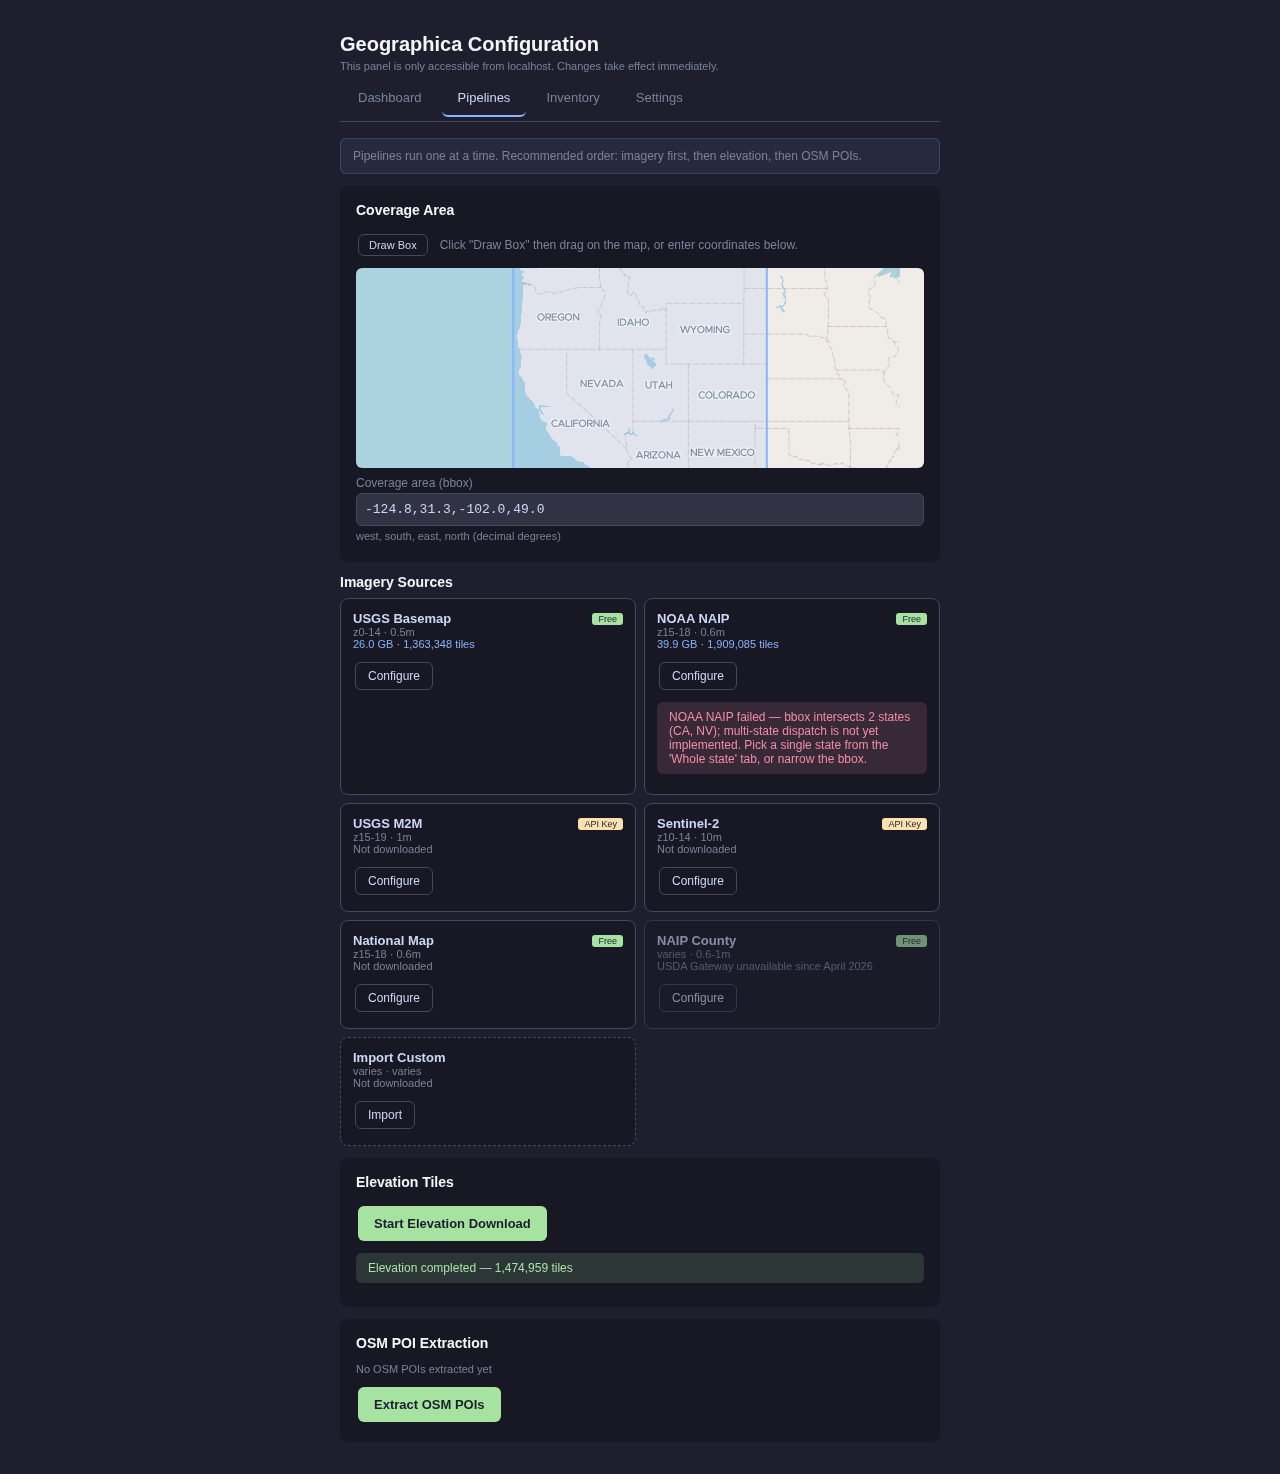
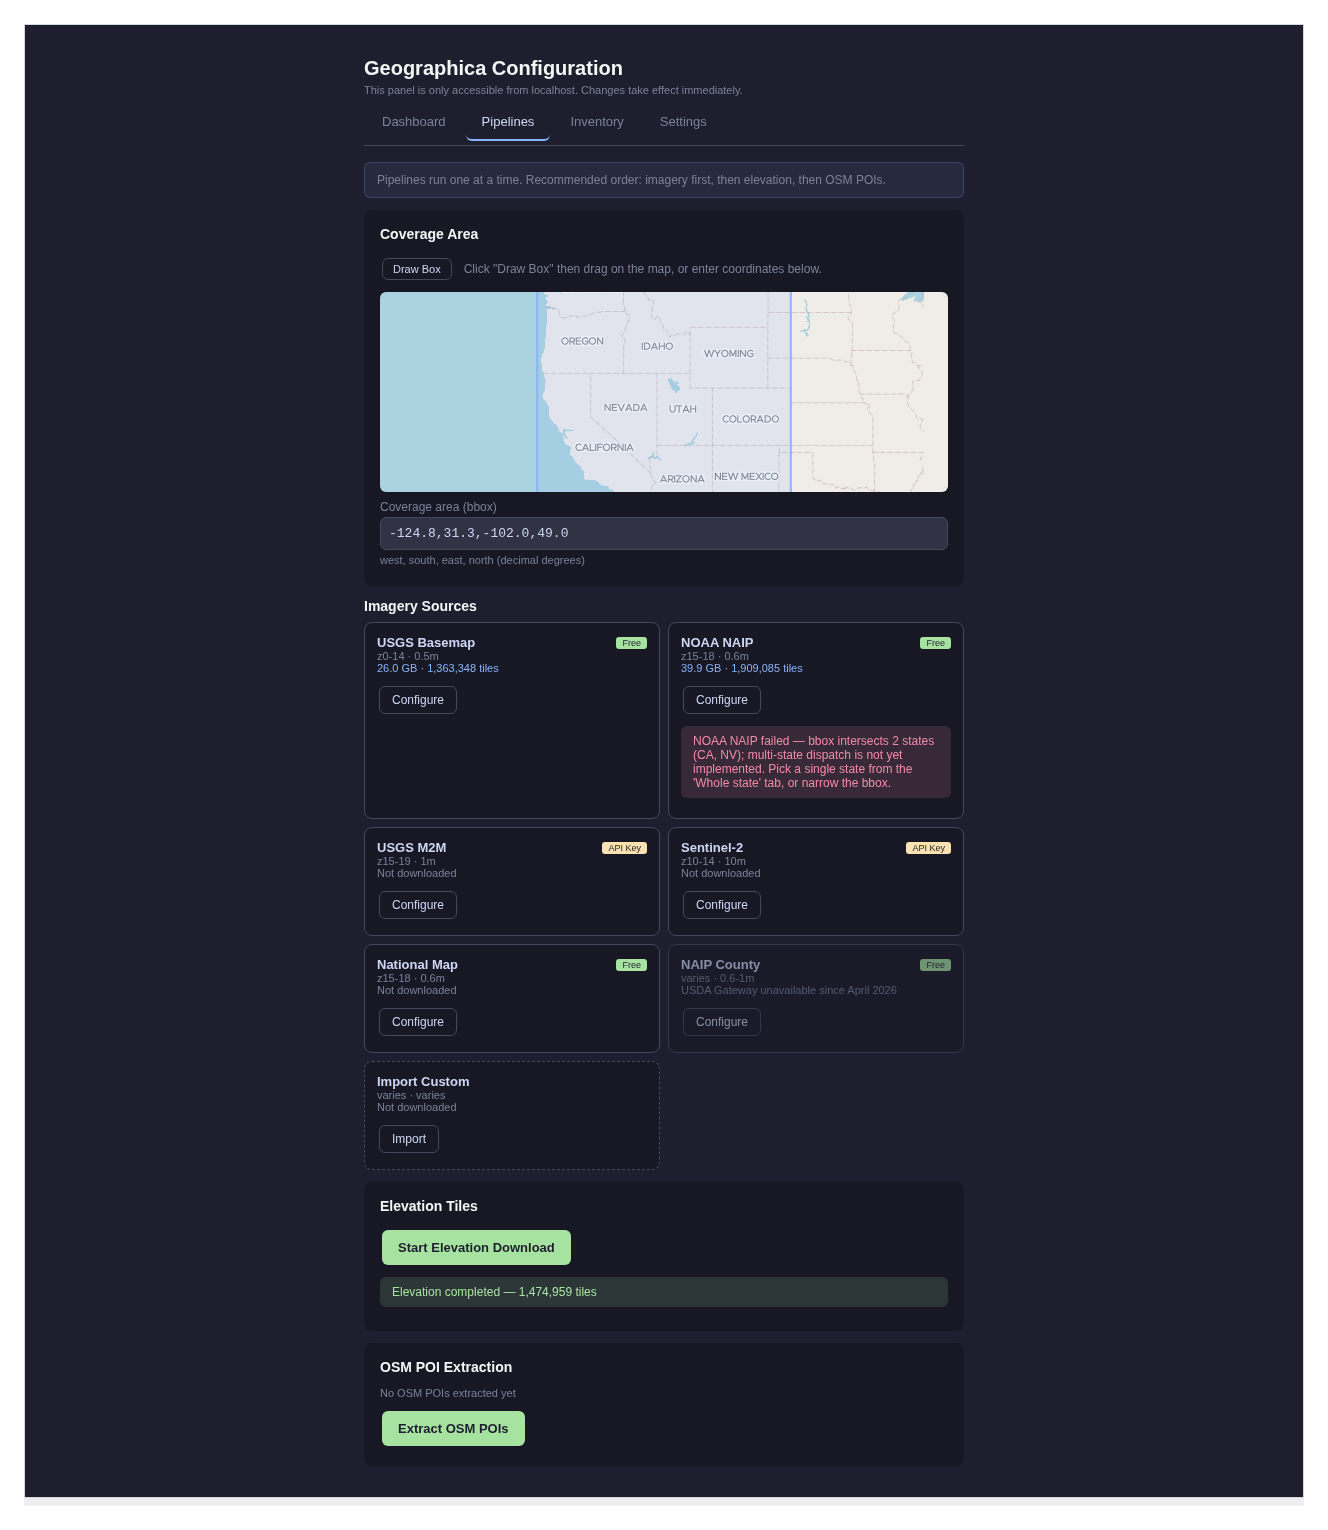
chore(screenshots): post-process desktop shots (border + drop shadow)
Pillow-based framing: 1px GitHub-muted border (#d0d7de) + soft drop
shadow on transparent canvas. Applied to 7 captured PNGs in-place
(3d-terrain, voice-search, public-lands, admin-pipeline, setup-wizard,
kmz-overlay, imagery-before-after). hero-everything and mobile-nav
remain pending Cameron's manual capture in T5.7; mobile-nav also
awaits the phone-frame composite in T5.9.

Idempotency is implemented via a PNG text-chunk sentinel
(`geographica-framed=1`) written on save and detected on subsequent
runs — re-running the script skips already-framed PNGs instead of
double-framing. `--force` overrides for intentional re-processing.

Also extends `--shots` to accept a comma-separated list of stems so
single shots can be re-framed without touching siblings.

Plan-body deviations:
- Replaced the docstring's "1-pixel transparent stripe" sentinel
  description with the actual PNG text-chunk implementation (text
  chunks survive PIL save/load, are transparent to viewers, and
  don't risk corrupting the rendered image).
- Implemented the placeholder `# else: parse args.shots ...` branch
  (~10 lines).
- Added `--force` flag to bypass the idempotency check.

Agent: bajada

diff --git a/scripts/postprocess_screenshots.py b/scripts/postprocess_screenshots.py
@@ -1,0 +1,173 @@
+"""
+Apply visual framing to README screenshots.
+
+Desktop shots: subtle 1px border (#d0d7de) + soft drop shadow on a transparent
+canvas. Mobile shots: composite into a phone frame (deferred to T5.9 — falls
+back to desktop framing if no template is present).
+
+Idempotency: the framing operation grows the canvas to a deterministic size
+(src_w + 2*PADDING, src_h + 2*PADDING + SHADOW_OFFSET_Y). Before processing,
+the script reads the source PNG's "geographica-framed" PNG text marker; if
+present, the file is skipped. The marker is written into the PIL Image
+metadata on the first framed save.
+
+Usage:
+  python3 scripts/postprocess_screenshots.py                        # all
+  python3 scripts/postprocess_screenshots.py --shots 3d-terrain     # one
+  python3 scripts/postprocess_screenshots.py --shots a,b,c          # subset
+  python3 scripts/postprocess_screenshots.py --force                # re-frame
+"""
+import argparse
+from pathlib import Path
+from PIL import Image, ImageDraw, ImageFilter, PngImagePlugin
+
+OUT_DIR = Path(__file__).resolve().parent.parent / "docs" / "screenshots"
+GALLERY_DIR = OUT_DIR / "gallery"
+PHONE_FRAME_PATH = OUT_DIR / "_phone_frame_template.png"
+
+DESKTOP_SHOTS = ["3d-terrain", "voice-search", "public-lands", "admin-pipeline", "hero-everything"]
+GALLERY_SHOTS = ["setup-wizard", "kmz-overlay", "imagery-before-after"]
+MOBILE_SHOTS = ["mobile-nav"]
+
+BORDER_COLOR = (208, 215, 222, 255)  # #d0d7de — GitHub muted border
+SHADOW_OFFSET = (0, 8)
+SHADOW_BLUR = 16
+SHADOW_OPACITY = 64
+PADDING = 24
+
+FRAMED_MARKER_KEY = "geographica-framed"
+FRAMED_MARKER_VAL = "1"
+
+
+def _is_already_framed(img: Image.Image) -> bool:
+    """Detect prior framing via PNG text metadata sentinel."""
+    info = getattr(img, "info", {}) or {}
+    return info.get(FRAMED_MARKER_KEY) == FRAMED_MARKER_VAL
+
+
+def _build_pnginfo() -> PngImagePlugin.PngInfo:
+    pnginfo = PngImagePlugin.PngInfo()
+    pnginfo.add_text(FRAMED_MARKER_KEY, FRAMED_MARKER_VAL)
+    return pnginfo
+
+
+def desktop_frame(input_path: Path, output_path: Path, force: bool = False) -> str:
+    """1px border + soft drop shadow on a transparent canvas. Returns status."""
+    src = Image.open(input_path)
+    if not force and _is_already_framed(src):
+        return "skipped (already framed)"
+    src = src.convert("RGBA")
+    sw, sh = src.size
+
+    canvas_w = sw + PADDING * 2
+    canvas_h = sh + PADDING * 2 + SHADOW_OFFSET[1]
+    canvas = Image.new("RGBA", (canvas_w, canvas_h), (0, 0, 0, 0))
+
+    # Draw shadow first (full-rectangle dark fill, then blurred)
+    shadow = Image.new("RGBA", (sw, sh), (0, 0, 0, SHADOW_OPACITY))
+    shadow_blurred = shadow.filter(ImageFilter.GaussianBlur(SHADOW_BLUR))
+    canvas.paste(
+        shadow_blurred,
+        (PADDING + SHADOW_OFFSET[0], PADDING + SHADOW_OFFSET[1]),
+        shadow_blurred,
+    )
+
+    # Draw the source image on top
+    canvas.paste(src, (PADDING, PADDING), src)
+
+    # 1px border
+    draw = ImageDraw.Draw(canvas)
+    draw.rectangle(
+        [(PADDING, PADDING), (PADDING + sw - 1, PADDING + sh - 1)],
+        outline=BORDER_COLOR,
+        width=1,
+    )
+
+    canvas.save(output_path, optimize=True, pnginfo=_build_pnginfo())
+    return "framed"
+
+
+def phone_frame(input_path: Path, output_path: Path, force: bool = False,
+                frame_template: Path = PHONE_FRAME_PATH) -> str:
+    """Composite a phone screenshot into a phone-frame template."""
+    if not frame_template.exists():
+        # Fallback: portrait desktop frame.
+        print(f"  ⚠ phone frame template missing at {frame_template}; "
+              f"falling back to desktop frame")
+        return desktop_frame(input_path, output_path, force=force)
+
+    src = Image.open(input_path)
+    if not force and _is_already_framed(src):
+        return "skipped (already framed)"
+    src = src.convert("RGBA")
+    frame = Image.open(frame_template).convert("RGBA")
+
+    cutout_w, cutout_h = frame.size
+    src_resized = src.resize((cutout_w, cutout_h), Image.Resampling.LANCZOS)
+    canvas = Image.new("RGBA", frame.size, (0, 0, 0, 0))
+    canvas.paste(src_resized, (0, 0), src_resized)
+    canvas.paste(frame, (0, 0), frame)
+    canvas.save(output_path, optimize=True, pnginfo=_build_pnginfo())
+    return "phone-framed"
+
+
+def _all_targets():
+    return (
+        [(OUT_DIR / f"{s}.png", OUT_DIR / f"{s}.png", "desktop") for s in DESKTOP_SHOTS]
+        + [(GALLERY_DIR / f"{s}.png", GALLERY_DIR / f"{s}.png", "desktop") for s in GALLERY_SHOTS]
+        + [(OUT_DIR / f"{s}.png", OUT_DIR / f"{s}.png", "phone") for s in MOBILE_SHOTS]
+    )
+
+
+def _resolve_shot(name: str):
+    """Map a bare shot name (e.g. 'kmz-overlay') back to its (in, out, kind) tuple."""
+    for tup in _all_targets():
+        inpath, _outpath, _kind = tup
+        if inpath.stem == name:
+            return tup
+    return None
+
+
+def main():
+    parser = argparse.ArgumentParser(description=__doc__)
+    parser.add_argument(
+        "--shots",
+        default="all",
+        help="'all' (default) or a comma-separated list of shot stems "
+             "(e.g. '3d-terrain,voice-search').",
+    )
+    parser.add_argument(
+        "--force",
+        action="store_true",
+        help="Re-frame even if the framed-marker is already present.",
+    )
+    args = parser.parse_args()
+
+    if args.shots == "all":
+        targets = _all_targets()
+    else:
+        names = [s.strip() for s in args.shots.split(",") if s.strip()]
+        targets = []
+        for name in names:
+            tup = _resolve_shot(name)
+            if tup is None:
+                print(f"  ⚠ unknown shot: {name} (skipping)")
+                continue
+            targets.append(tup)
+
+    for inpath, outpath, kind in targets:
+        if not inpath.exists():
+            print(f"  ⚠ skipping (missing): {inpath.name}")
+            continue
+        if kind == "desktop":
+            status = desktop_frame(inpath, outpath, force=args.force)
+        elif kind == "phone":
+            status = phone_frame(inpath, outpath, force=args.force)
+        else:
+            print(f"  ⚠ unknown kind '{kind}' for {inpath.name}")
+            continue
+        print(f"  ✓ {inpath.name} → {status}")
+
+
+if __name__ == "__main__":
+    main()
